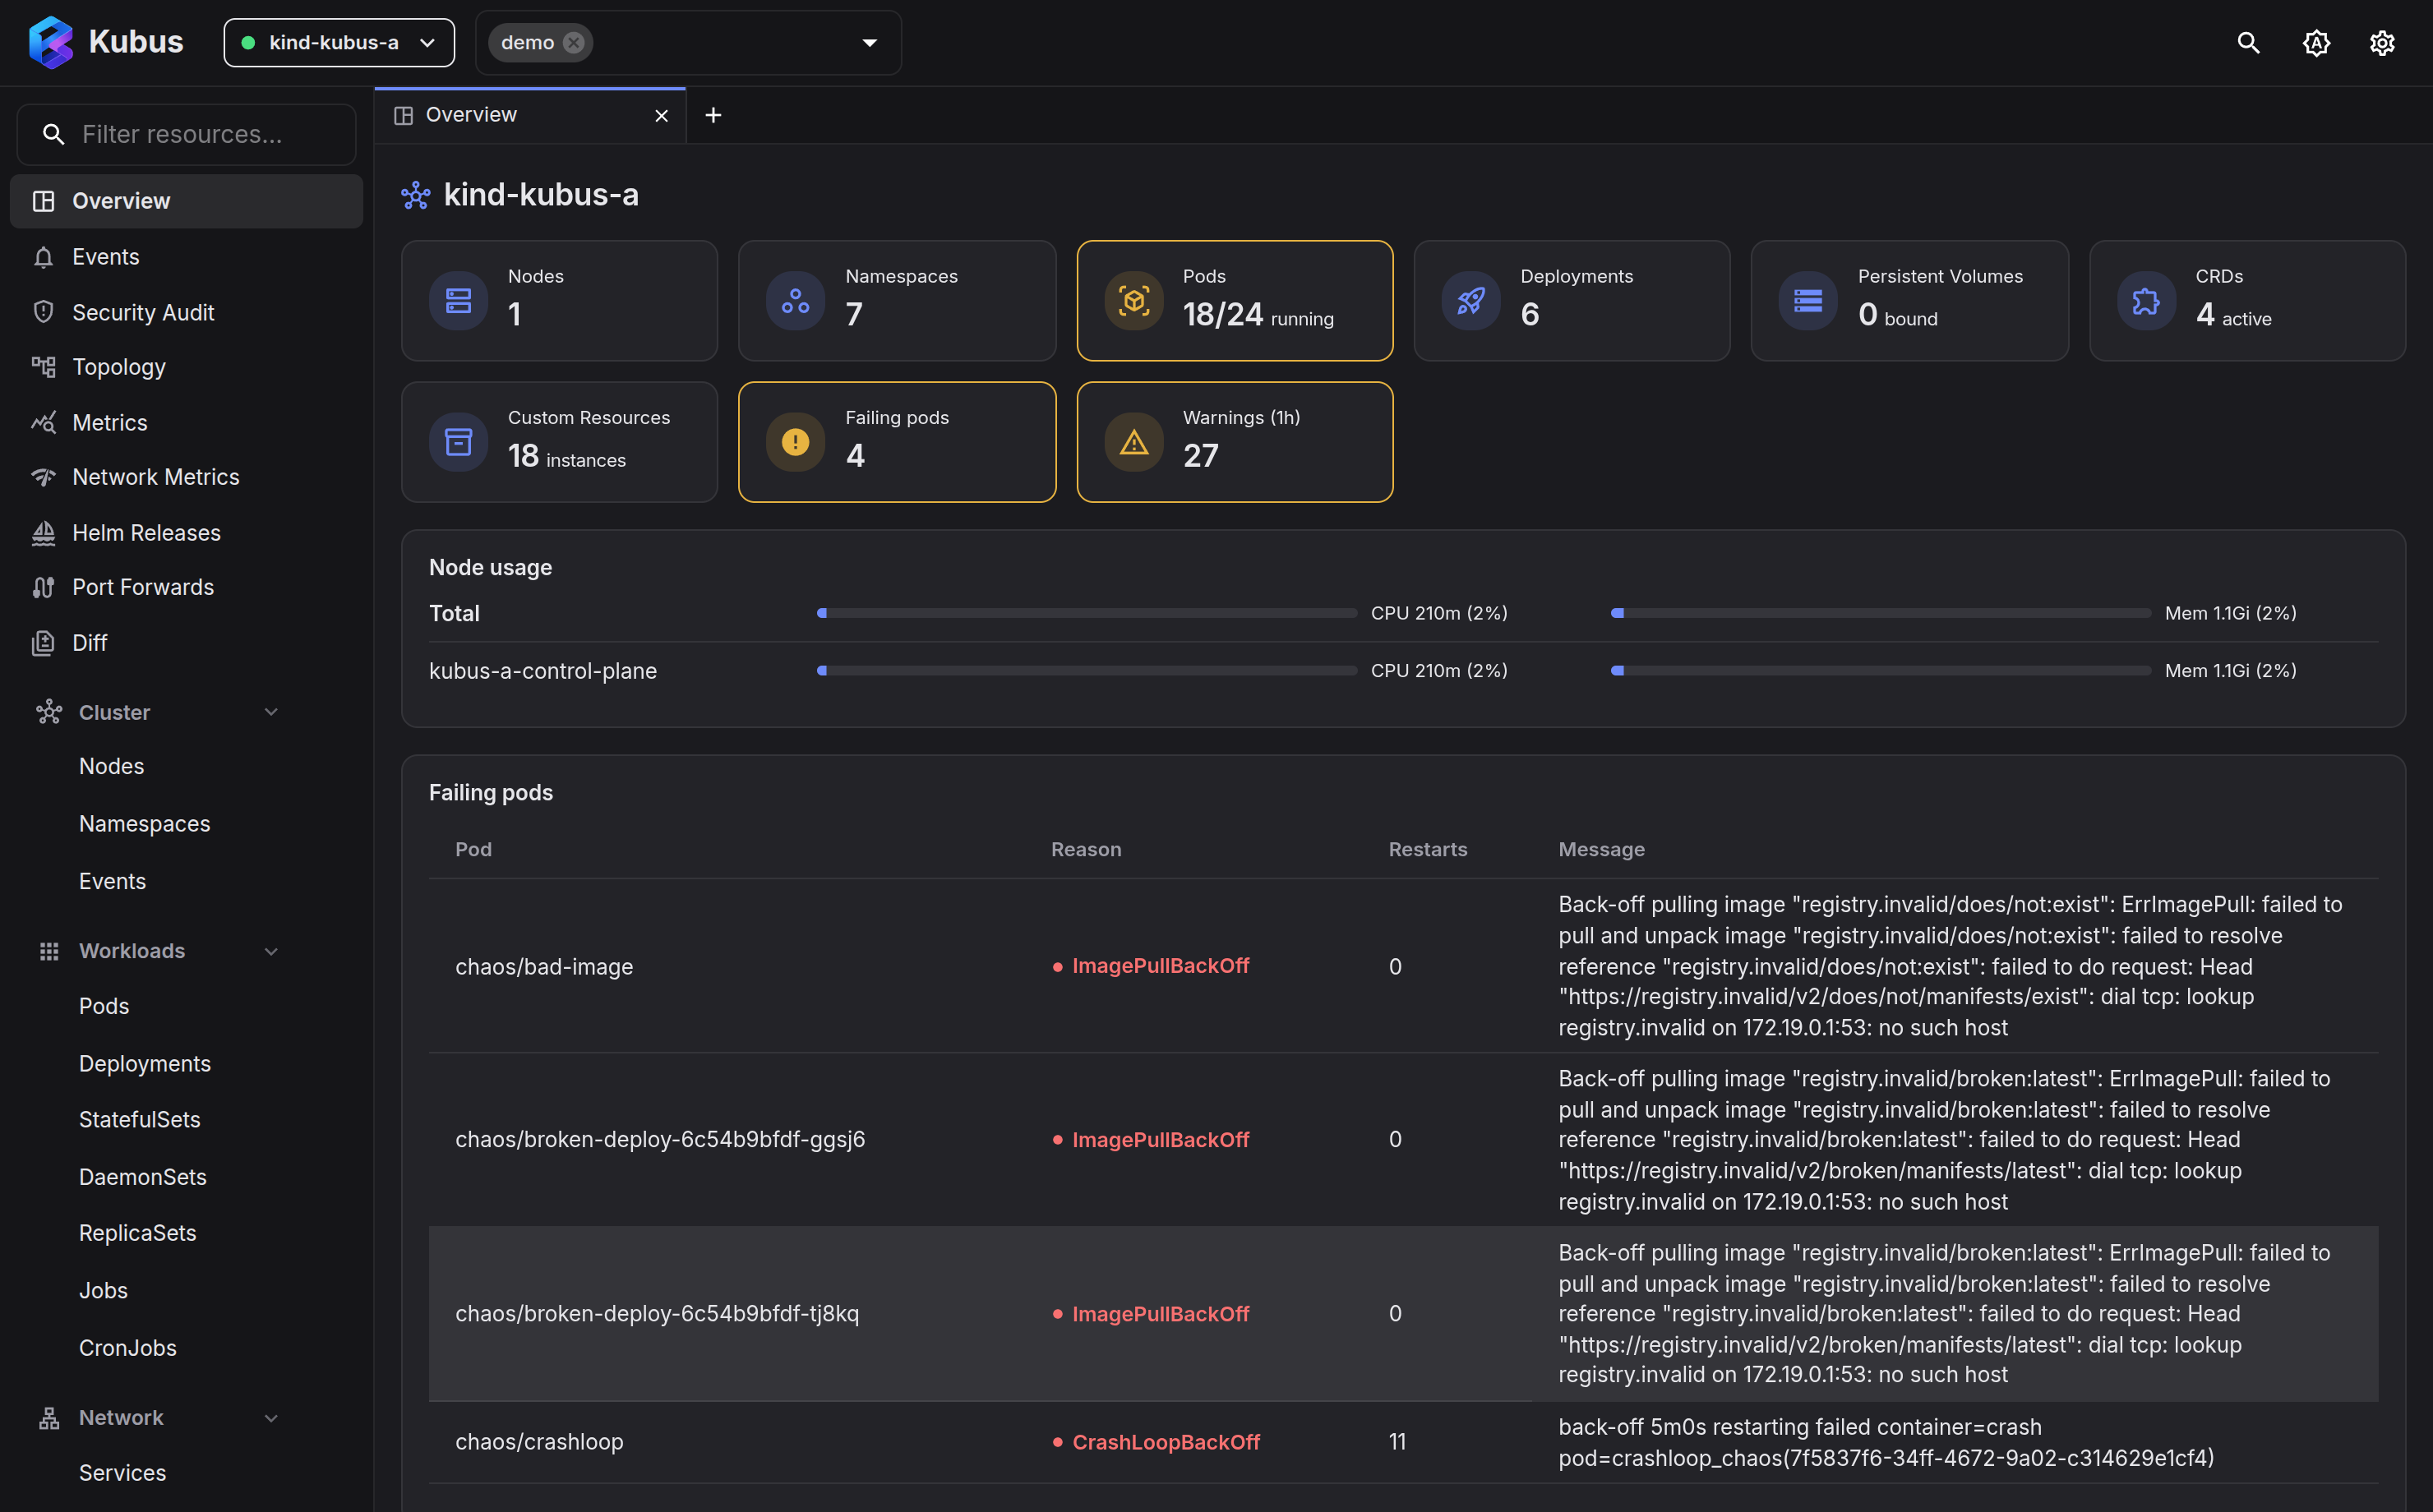
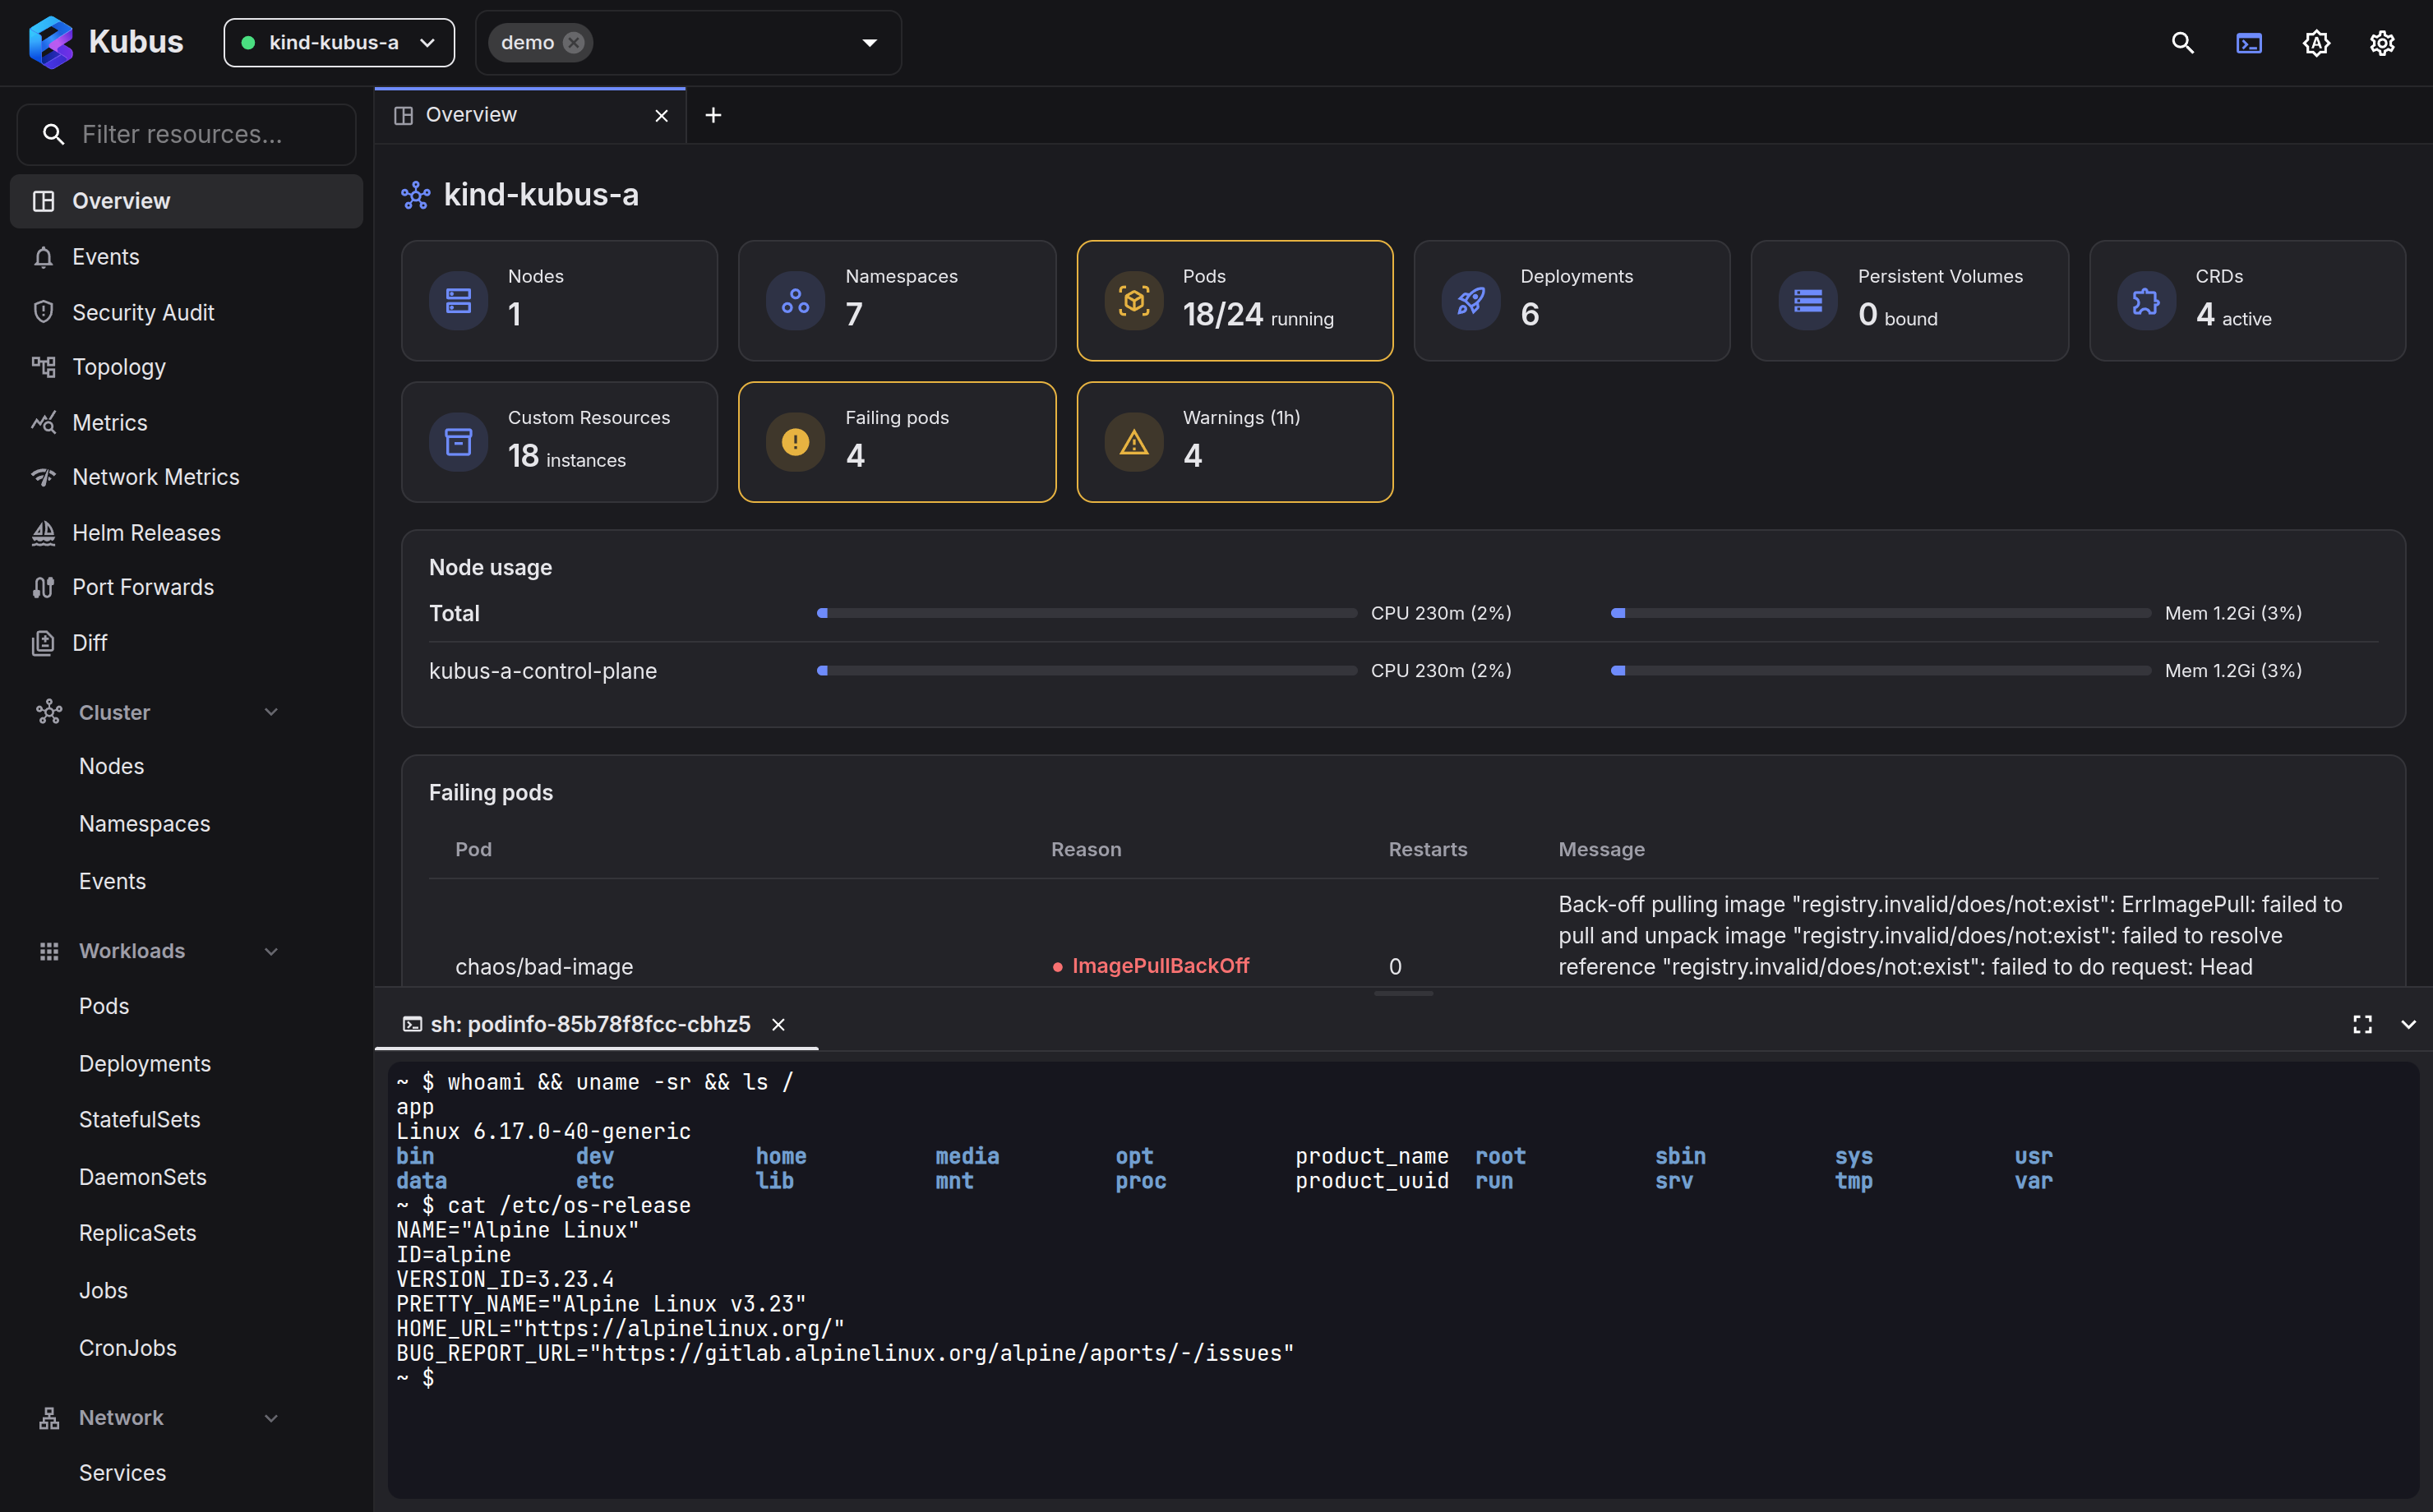
video to the docs

Changed region(s): [[0.1554, 0.6505, 0.9946, 0.9913], [0.5905, 0.4027, 0.6216, 0.4647], [0.4351, 0.7435, 0.4973, 0.7745]]

diff --git a/docs/assets/stylesheets/extra.css b/docs/assets/stylesheets/extra.css
@@ -25,6 +25,27 @@
   box-shadow: 0 1px 3px rgba(0, 0, 0, 0.5), 0 8px 24px rgba(0, 0, 0, 0.45);
 }
 
+/* Responsive 16:9 video embed, framed like the screenshots */
+.md-typeset .kubus-video {
+  position: relative;
+  aspect-ratio: 16 / 9;
+  border-radius: 8px;
+  overflow: hidden;
+  box-shadow: 0 1px 3px rgba(0, 0, 0, 0.18), 0 8px 24px rgba(0, 0, 0, 0.12);
+}
+
+[data-md-color-scheme="slate"] .md-typeset .kubus-video {
+  box-shadow: 0 1px 3px rgba(0, 0, 0, 0.5), 0 8px 24px rgba(0, 0, 0, 0.45);
+}
+
+.md-typeset .kubus-video iframe {
+  position: absolute;
+  inset: 0;
+  width: 100%;
+  height: 100%;
+  border: 0;
+}
+
 /* Show the screenshot variant that matches the active theme.
    Pages reference both <name>.png#only-light and <name>-dark.png#only-dark. */
 [data-md-color-scheme="default"] .md-typeset img[src$="#only-dark"],

diff --git a/docs/index.md b/docs/index.md
@@ -106,31 +106,17 @@ never sends a byte off your machine.
 
 </div>
 
-## A 60-second tour
+## Kubus in one minute
 
-=== "Browse"
-
-    Pick your clusters, pick a kind, and you get a live list that updates over a
-    WebSocket watch — no refresh button. CRDs show their own `additionalPrinterColumns`.
-
-    ![Pods list with live status](assets/screenshots/pods.png#only-light){ .shadow }
-    ![Pods list with live status](assets/screenshots/pods-dark.png#only-dark){ .shadow }
-
-=== "Inspect"
-
-    Click any resource to slide open a details drawer with a human overview, a
-    Monaco-powered YAML editor, events, a relationship map and (for pods/nodes) metrics.
-
-    ![Resource details drawer](assets/screenshots/pod-detail.png#only-light){ .shadow }
-    ![Resource details drawer](assets/screenshots/pod-detail-dark.png#only-dark){ .shadow }
-
-=== "Act"
-
-    Scale, restart, roll back, trigger a CronJob, cordon or drain a node, open a shell,
-    forward a port — all from a row menu, the detail drawer or the command palette.
-
-    ![Resource diff across clusters](assets/screenshots/diff.png#only-light){ .shadow }
-    ![Resource diff across clusters](assets/screenshots/diff-dark.png#only-dark){ .shadow }
+<div class="kubus-video">
+  <iframe
+    src="https://www.youtube-nocookie.com/embed/b86yKodD5Mw"
+    title="Kubus in one minute"
+    allow="accelerometer; clipboard-write; encrypted-media; gyroscope; picture-in-picture; web-share"
+    referrerpolicy="strict-origin-when-cross-origin"
+    allowfullscreen>
+  </iframe>
+</div>
 
 ## Ready?
 

diff --git a/docs/guide/index.md b/docs/guide/index.md
@@ -8,6 +8,34 @@ Welcome to the Kubus guide. Each page here covers one part of the app, with scre
 and step-by-step instructions. You don't have to read it in order — jump to whatever
 you're trying to do.
 
+## Browse, inspect, act
+
+The whole app in three moves:
+
+=== "Browse"
+
+    Pick your clusters, pick a kind, and you get a live list that updates over a
+    WebSocket watch — no refresh button. CRDs show their own `additionalPrinterColumns`.
+
+    ![Pods list with live status](../assets/screenshots/pods.png#only-light){ .shadow }
+    ![Pods list with live status](../assets/screenshots/pods-dark.png#only-dark){ .shadow }
+
+=== "Inspect"
+
+    Click any resource to slide open a details drawer with a human overview, a
+    Monaco-powered YAML editor, events, a relationship map and (for pods/nodes) metrics.
+
+    ![Resource details drawer](../assets/screenshots/pod-detail.png#only-light){ .shadow }
+    ![Resource details drawer](../assets/screenshots/pod-detail-dark.png#only-dark){ .shadow }
+
+=== "Act"
+
+    Scale, restart, roll back, trigger a CronJob, cordon or drain a node, open a shell,
+    forward a port — all from a row menu, the detail drawer or the command palette.
+
+    ![Resource diff across clusters](../assets/screenshots/diff.png#only-light){ .shadow }
+    ![Resource diff across clusters](../assets/screenshots/diff-dark.png#only-dark){ .shadow }
+
 ## Start here
 
 <div class="grid cards" markdown>

diff --git a/README.md b/README.md
@@ -7,7 +7,7 @@ releases, and more.
 
 **The docs are the main entry point:** [flosch62.github.io/Kubus](https://flosch62.github.io/Kubus/)
 
-![The Kubus overview dashboard](docs/assets/screenshots/overview.png)
+[![vid](docs/assets/overview-play.png)](https://www.youtube.com/watch?v=b86yKodD5Mw)
 
 ## Start Here
 
@@ -17,6 +17,7 @@ releases, and more.
 - [Reference](https://flosch62.github.io/Kubus/reference/)
 - [Contributing and development](https://flosch62.github.io/Kubus/community/)
 - [Desktop releases](https://github.com/FloSch62/Kubus/releases)
+
 
 ## Run From Source
 